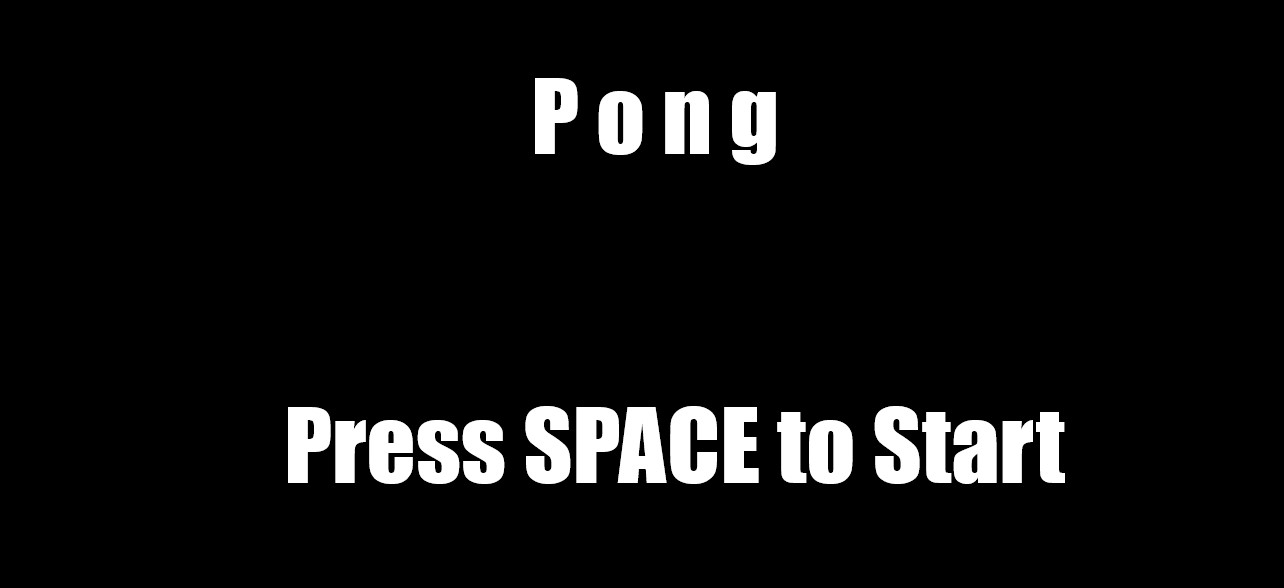
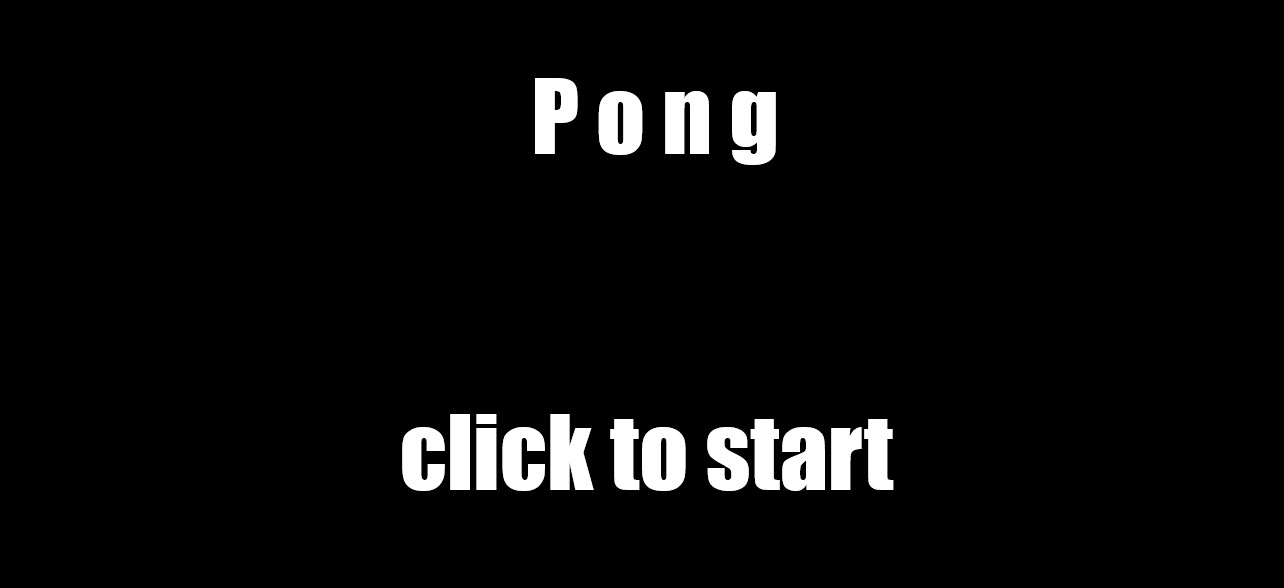
worked on project

Changed region(s): [[0.2181, 0.6735, 0.8411, 0.8571]]

diff --git a/Pong Game/sketch.js b/Pong Game/sketch.js
@@ -2,12 +2,10 @@
 // Kati Kesur
 // Date
 //
-// Extra for Experts:
-// Added sound when ball is in contact with the board
 
 // defining global variables
-let cx = 0;
-let cy = 0;
+let cx = 15; // circle diameter/2
+let cy = 15; // circle diameter/2
 let dx = 3;
 let dy = 2;
 let x = 0;
@@ -17,6 +15,9 @@ let circleSize = 30;
 let paddleSize;
 let state = "start";
 let backgroundImg;
+let hit = false;
+let score1 = 0
+let score2 = 0;
 
 // Setting up canvas and image
 function preload() {
@@ -40,17 +41,18 @@ function draw(){
     backgroundImg = loadImage("Pong_main.jpg");
     drawCircle();
     moveCircle();
-    bounceOffPaddles();
+    bounceOffTopAndBottom();
     leftPaddle();
     rightPaddle();
-    // bounceOffRightPaddle();
-    // bounceOffLeftPaddle();
+    bounceOffLeftPaddle();
+    bounceOffRightPaddle();
+    winner();
   }
 }
 
 // Starting the game when space is pressed
-function keyPressed(){
-  if (state === "start" && keyCode === 32){
+function mousePressed(){
+  if (state === "start"){
     state = "main";
   }
 }
@@ -70,14 +72,13 @@ function moveCircle(){
   cy += dy;
 }
 
-
 function bounceOffWall() {
   //bounce circle off right wall
   if (cx >= width - circleSize/2) {
     dx *= -1;
   }
   //bounce circle off left wall
-  else if (cx <= 0) {
+  else if (cx <= circleSize/2) {
     dx *= -1;
   }
   //bounce circle off bottom wall
@@ -85,32 +86,24 @@ function bounceOffWall() {
     dy *= -1;
   }
   //bounce circle off top wall
-  if (cy <= 0) {
+  if (cy <= circleSize/2) {
     dy *= -1;
   }
 }
 
-//circle and paddle collision
-function bounceOffPaddles(){
-  //bounce circle off right wall
-  if (cx >= width - circleSize/2) {
-    dx *= -1;
-  }
-  //bounce circle off left wall
-  else if (cx <= 0) {
-    dx *= -1;
-  }
+//top and bottom collision with circle
+function bounceOffTopAndBottom(){
   //bounce circle off bottom wall
   if (cy >= height - circleSize/2) {
     dy *= -1;
   }
   //bounce circle off top wall
-  if (cy <= 0) {
+  if (cy <= circleSize/2) {
     dy *= -1;
   }
 }
 
-// moving paddles with W, S, up and down arrow keys
+// moving left paddle with "W" and "S"
 function leftPaddle(){
   rect(0, y, width/90, height/8);
   if (keyIsDown(87)){
@@ -129,6 +122,7 @@ function leftPaddle(){
   }
 }
 
+// moving right paddle with up and down arrow key
 function rightPaddle(){
   rect(width - width/90, yp, width/90, height/8);
   if (keyIsDown(38)){
@@ -137,6 +131,7 @@ function rightPaddle(){
   if (keyIsDown(40)){
     rect(0, yp+= 3);
   }
+
   // preventing right paddle from going off-screen
   if (yp > height - height/8){
     yp = height - height/8;
@@ -146,34 +141,55 @@ function rightPaddle(){
   }
 }
 
+// bounce circle off paddles - code used from collide2D
+function bounceOffLeftPaddle() {
+    rect(0, y, width/90, height/8);
+    circle(cx, cy, circleSize);
+
+    hit = collideRectCircle(0, y, width/90, height/8, cx, cy, circleSize);
+
+    if(hit === true){
+      dx *= -1;
+    }
+}
+
+function bounceOffRightPaddle() {
+  rect(width - width/90, yp, width/90, height/8);
+  circle(cx, cy, circleSize);
+
+  hit = collideRectCircle(width - width/90, yp, width/90, height/8, cx, cy, circleSize);
+
+  if(hit === true){
+    dx *= -1;
+  }
+}
+
+function winner(){
+  if (cx === width - circleSize/2) {
+      textSize(width/14);
+      text("Player one Wins!", width/5, height/5)
+      noLoop();
+    }
+    else if (cx === 0) {
+      textSize(width/14);
+      text("Player Two Wins!", width/5, height/5);
+      noLoop();
+    }
+}
 
 
-// if (cx ===  + circleSize/2 && y )
 
-// function bounceOffLeftPaddle() {
-//   //bounce circle off left paddle
-//   if (x <= width - width/80 - width/110 - circleSize) {
-//     dx *= -1;
-//   }
+// attempt at having a score instead of first to one wins
+// // score keeping
+// function scoreText(){
+//   textSize(width/16);
+//   text(score1 + "  " + score2, width/2.25, height/7);
 // }
-
-// let hit = false;
-
-// function draw() {
-//     if (state === "main"){
-//       rect(10, 5, 20, 150);
-//       circle(cx, cy, circleSize);
-
-//       hit = collideRectCircle(10, 5, 20, 150, mouseX, mouseY, 100);
-
-//       // Use vectors as input:
-//       // const mouse      = createVector(mouseX, mouseY);
-//       // const rect_start = createVector(200, 200);
-//       // const rect_size  = createVector(100, 150);
-//       // const radius     = 100;
-//       // hit = collideRectCircleVector(rect_start, rect_size, mouse, radius);
-
-//       stroke(hit ? color('red') : 0);
-//       print('colliding?', hit);
-//   }
+// function score(){
+//   if (cx === width - circleSize/2) {
+//       score1 += 1;
+//     }
+//     else if (cx === 0) {
+//       score2 += 1;
+//     }
 // }
